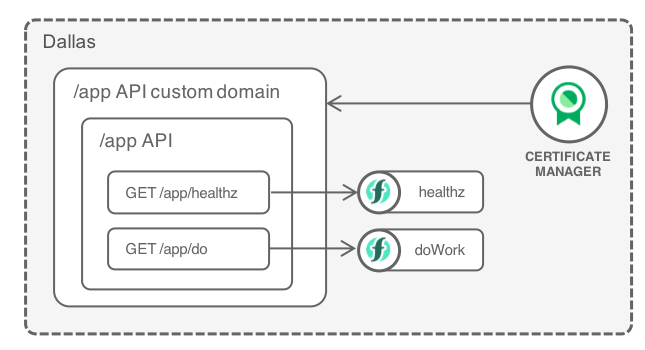
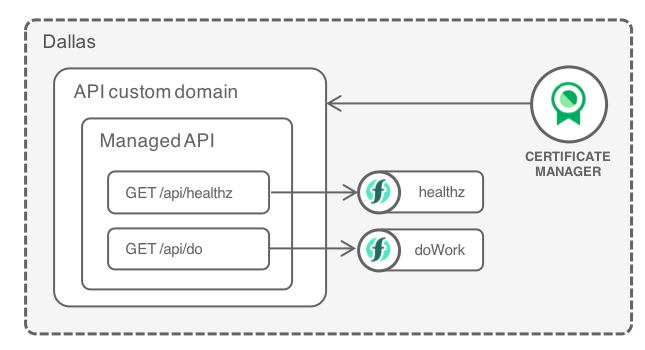
configure custom API

diff --git a/multi-region-serverless.md b/multi-region-serverless.md
@@ -101,7 +101,7 @@ The following steps will need to be repeated for every location where you want t
 
 ### Import certificate to a central repository
 
-1. Given a location, create a [{{site.data.keyword.cloudcerts_short}}](https://console.bluemix.net/catalog/services/cloudcerts) instance.
+1. Create a [{{site.data.keyword.cloudcerts_short}}](https://console.bluemix.net/catalog/services/cloudcerts) instance in the target location.
 1. In the service dashboard, use **Import Certificate**:
    * Set **Name** to the custom subdomain and domain, such as *api.mydomain.com*.
    * Browse for the **Certificate file** in PEM format.
@@ -111,7 +111,7 @@ The following steps will need to be repeated for every location where you want t
 ### Define actions
 
 1. Go to [{{site.data.keyword.openwhisk_short}} / Actions](https://console.bluemix.net/openwhisk/actions).
-1. Switch to the given location and select an organization and space where to deploy the actions.
+1. Switch to the target location and select an organization and space where to deploy the actions.
 1. Create an action
    1. Set **Name** to **doWork**.
    1. Set **Enclosing Package** to **default**.
@@ -140,34 +140,34 @@ The following steps will need to be repeated for every location where you want t
 
 ### Expose the actions with a managed API
 
+The next step involves creating a managed API to expose your actions.
 
 1. Go to [{{site.data.keyword.openwhisk_short}} / API](https://console.bluemix.net/openwhisk/apimanagement).
-1. Create a new API:
-   1. Set **Name** to **hello**.
-   1. Set **Base path** to **/hello**.
-   1. Add operation **/world** pointing to **hello** action.
-   1. Add operation **/healthz** pointing to **healthz** action.
-   1. Save
-
-![Managed API](./api-gateway.png)
+1. Create a new managed API:
+   1. Set **Name** to **App API**.
+   1. Set **Base path** to **/api**.
+   1. Add a **GET** operation **/do** pointing to the **doWork** action.
+   1. Add another **GET** operation **/healthz** pointing to **healthz** action.
+   1. **Save**
 
 ### Configure the custom domain for the managed API
 
+Creating a managed API gives you a default endpoint like `https://service.us.apiconnect.ibmcloud.com/gws/apigateway/api/1234abcd/app`. In this section, you will configure this endpoint to be able to handle requests coming from your custom subdomain, the domain which will later be configured in IBM Cloud Internet Services.
+
 1. Go to [APIs / Custom domains](https://console.bluemix.net/apis/domains).
-1. Locate the custom domain linked to the org and space where you created the actions and the managed API.
-1. Click **Change Settings** in the action menu
+1. Locate the custom domain linked to the organization and space where you created the actions and the managed API.
+1. Click **Change Settings** in the action menu.
+1. Make note of the **Default domain / alias** value.
 1. Check **Apply custom domain**
-1. Set **Domain name** to the domain you will use with the CIS GLB, *hello-functions.mydomain.com*
-1. Select the {{site.data.keyword.cloudcerts_short}} in the location where the actions are deployed
-1. Select the certificate for the domain
-1. In CIS / Reliability / DNS, create a new DNS TXT record mapping your domain to the API default domain / alias
-1. Save the custom domain settings. The dialog will check for the TXT record.
+   1. Set **Domain name** to the domain you will use with the CIS Global Load Balancer such as *api.mydomain.com*.
+   1. Select the {{site.data.keyword.cloudcerts_short}} in the location where the actions are deployed.
+   1. Select the certificate for the domain.
+1. Go to the dashboard of your instance of **Cloud Internet Services**, under **Reliability / DNS**, create a new **DNS TXT record** mapping your domain to the API default domain / alias
+1. Save the custom domain settings. The dialog will check for the existence of the DNS TXT record.
 
-![Custom Domains](./custom-domains.png)
+The DNS TXT record can be removed once the settings have been applied.
 
-![Custom Domain Cert](./custom-domain-cert.png)
-
-## Create a global load balancer in CIS
+## Distribute traffic across locations
 
 1. Create a health check
    1. Set **Monitor type** to **HTTPS**
